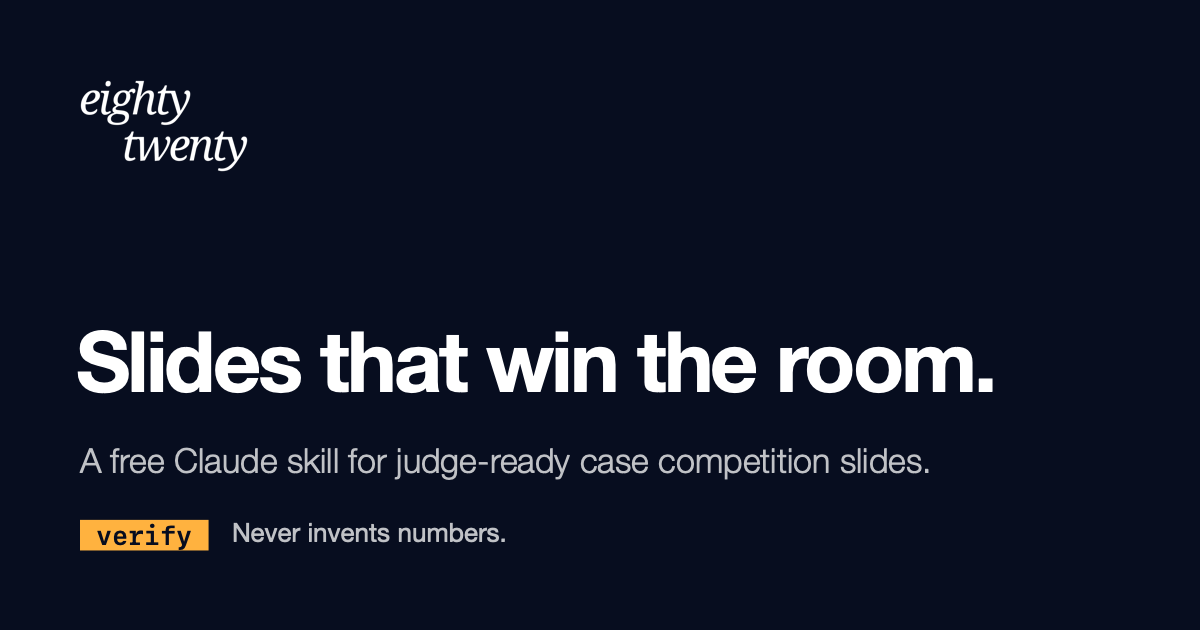
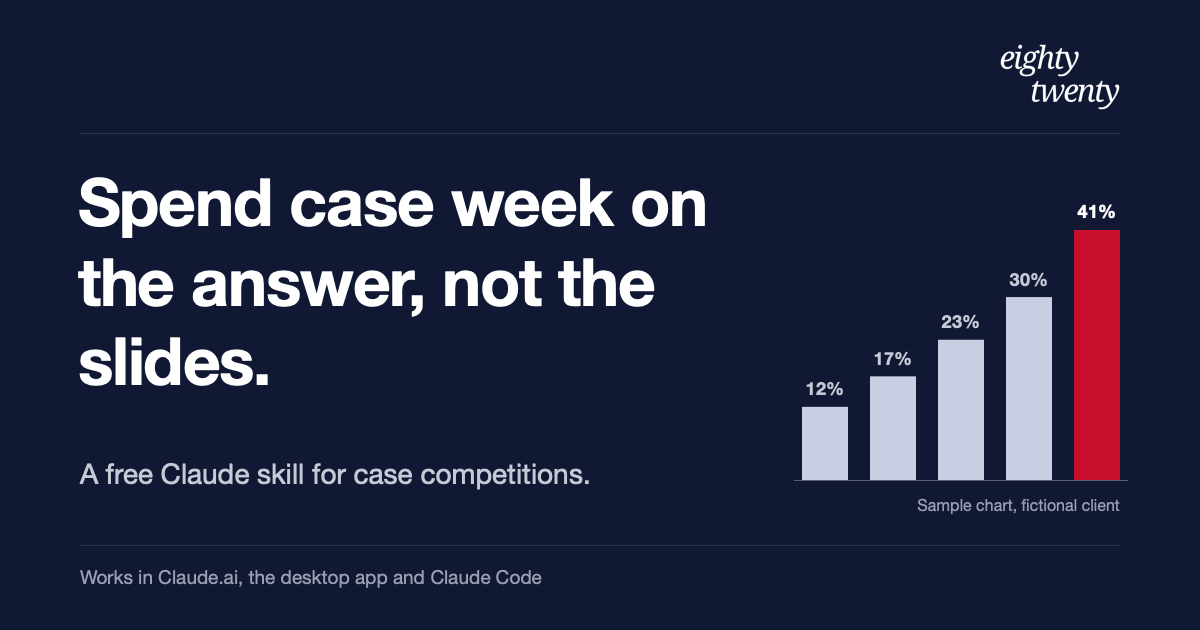
Update link preview to the new headline

diff --git a/index.html b/index.html
@@ -10,9 +10,9 @@
 <link rel="apple-touch-icon" href="favicon.png">
 <meta property="og:type" content="website">
 <meta property="og:url" content="https://case-comp-slide-builder.vercel.app/">
-<meta property="og:title" content="eightytwenty · Slides that win the room">
-<meta property="og:description" content="A free Claude skill that turns a case prompt into judge-ready case competition slides, then a full deck.">
-<meta property="og:image" content="https://case-comp-slide-builder.vercel.app/og.png">
+<meta property="og:title" content="eightytwenty · Spend case week on the answer, not the slides">
+<meta property="og:description" content="A free Claude skill for case competitions. It handles the formatting, alignment and last-minute fixes, so the night before goes to rehearsal.">
+<meta property="og:image" content="https://case-comp-slide-builder.vercel.app/og.png?v=2">
 <meta property="og:image:width" content="1200">
 <meta property="og:image:height" content="630">
 <meta name="twitter:card" content="summary_large_image">
